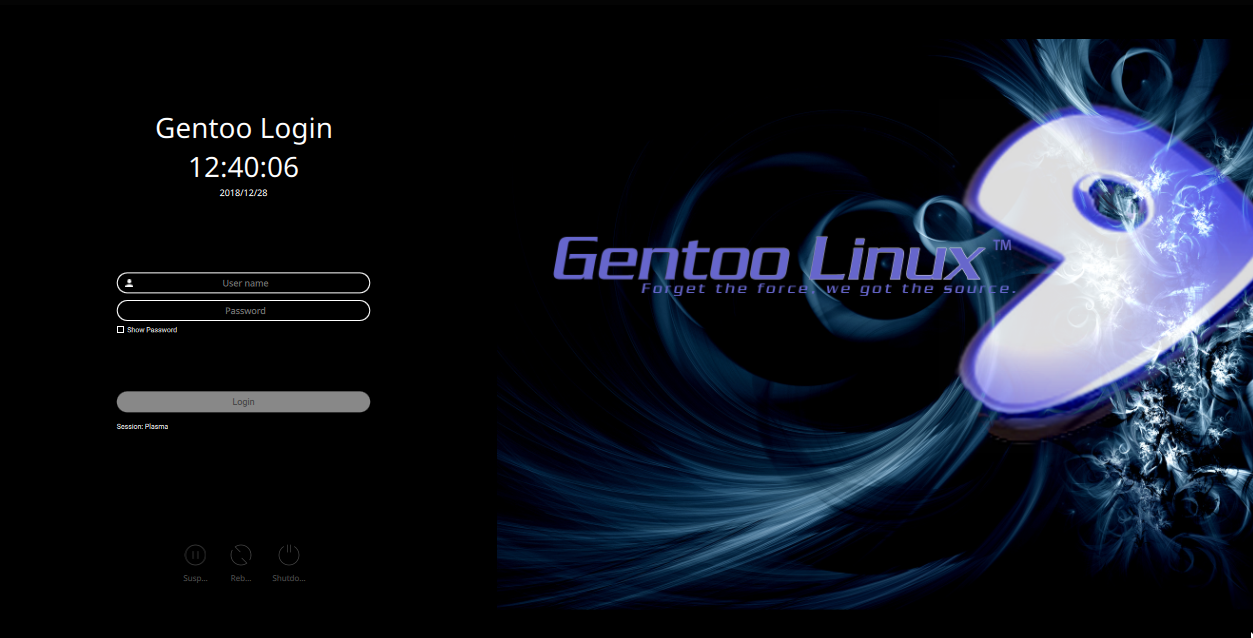
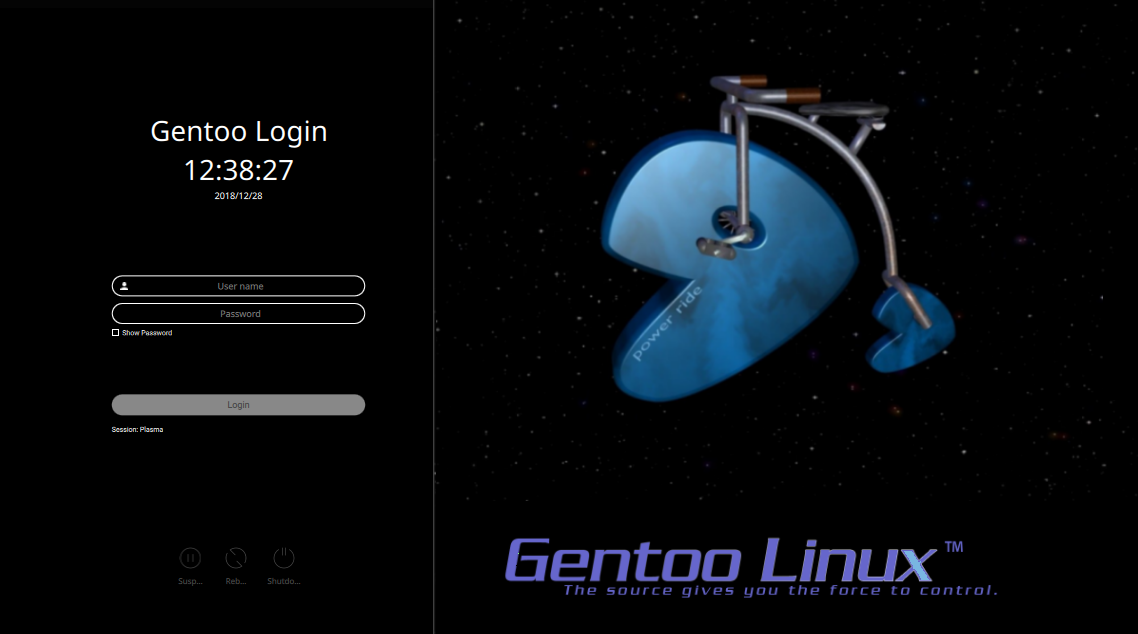
Removed old previews and also fixed the white text in the white box when choosing desktop. Also fixed preview for plasma settings

diff --git a/Main.qml b/Main.qml
@@ -28,14 +28,12 @@ Pane{
     height: config.ScreenHeight
     width: config.ScreenWidth
     padding: config.ScreenPadding || root.padding
-
     LayoutMirroring.enabled: config.ForceRightToLeft == "true" ? true : Qt.application.layoutDirection === Qt.RightToLeft
     LayoutMirroring.childrenInherit: true
-
     palette.button: "transparent"
-    palette.highlight: config.ThemeColor
-    palette.text: config.ThemeColor
-    palette.buttonText: config.ThemeColor
+    palette.highlight: "white"
+    palette.text: "darkgray"
+    palette.buttonText: "white"
     palette.window: "#000000"
     font.family: config.Font
     font.pointSize: config.FontSize !== "" ? config.FontSize : parseInt(height / 80)
